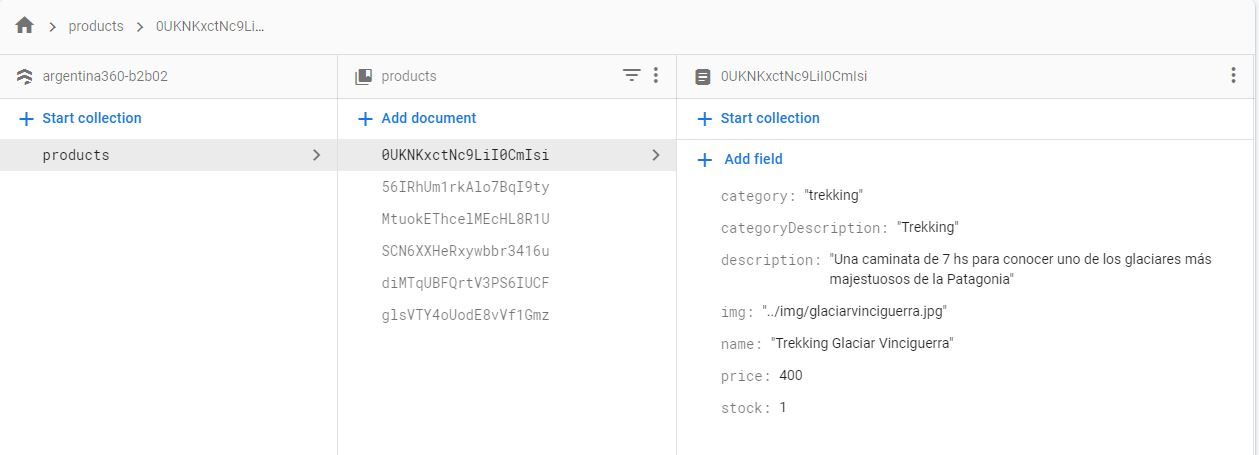
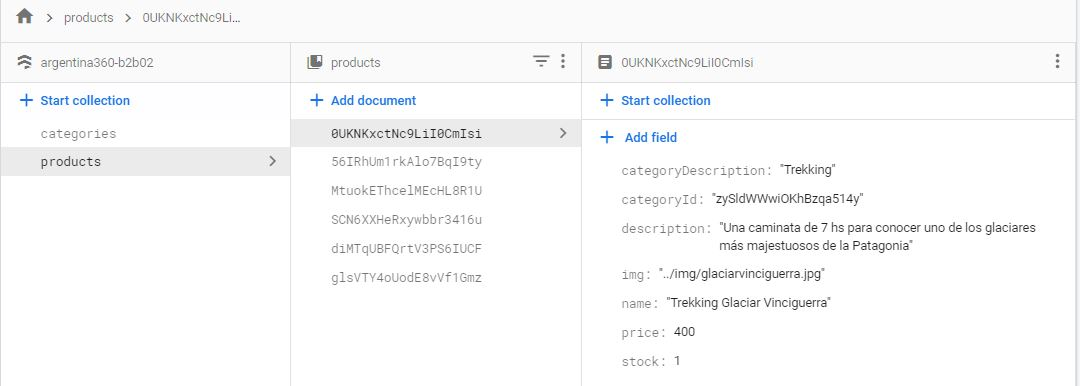
updated README

diff --git a/README.md b/README.md
@@ -2,11 +2,11 @@
 
 ## Repositorio de curso React (2495) - Coderhouse
 
-Este repositorio contiene todos los archivos necesarios para clonar el proyecto final del curso React (2495) de Coderhouse. El mismo consiste en todos los archivos html, css y javascript utilizados en la creación de la aplicación web de la tienda Argentina 360 la cual consiste en una única página (index.html). A su vez se listan las dependencias a instalarse para emular el desarrollo en un proyecto de Node.
+Este repositorio contiene todos los archivos necesarios para clonar el proyecto final del curso React (2495) de Coderhouse. El mismo consiste en todos los archivos html, css y javascript utilizados en la creación de la aplicación web de la tienda "Argentina 360". A su vez se listan las dependencias a instalarse para emular el desarrollo en un proyecto de Node.
 
 ## Acerca de la aplicación
 
-La aplicación "Tienda" simula un e-commerce de turismo en Argentina denominado "Argentina 360". En el mismo se pueden visualizar distintos tipos de productos turísticos filtrando por varias categorías y obtener luego detalles de una excursión, navegación o trekking en particular.
+La aplicación "Tienda" simula un e-commerce de turismo en Argentina denominado "Argentina 360". En el mismo se pueden visualizar distintos tipos de productos turísticos filtrando por varias categorías y obtener luego detalles de alguno en particular.
 
 ## Contenidos
 
@@ -72,13 +72,15 @@ Comenzar una nueva colección que deberá llamarse _products_
 
 <img src="https://github.com/UrbanPetris/tienda/blob/master/public/img/startcollection.JPG?raw=true" width="500">
 
-Completar los productos con las siguientes fields/keys (_category_, _categoryDescription_, _description_, _img_ _name_, _price_, _stock_). Todas deben ser del tipo texto salvo las últimas dos. Se recomienda que el primer field/key correspondiente al id se genere automáticamente:
+Completar los productos con las siguientes fields/keys (_categoryId_, _categoryDescription_, _description_, _img_ _name_, _price_, _stock_). Todas deben ser del tipo texto salvo las últimas dos. Se recomienda que el primer field/key correspondiente al id se genere automáticamente:
 
 <img src="https://github.com/UrbanPetris/tienda/blob/master/public/img/startcollection2.JPG?raw=true" width="500">
 
 ![startcollection3](https://github.com/UrbanPetris/tienda/blob/master/public/img/startcollection3.JPG?raw=true)
 
-PONER ACÁ CÓMO CONFIGURAR CATEGORY
+El campo _categoryId_ debe contener el id de los documentos de la collection a crear de categories donde la key _description_ será el nombre que se incorporará al navbar:
+
+![startcollection4](https://github.com/UrbanPetris/tienda/blob/master/public/img/startcollection4.JPG?raw=true)
 
 Una vez hecho esto deben configurarse las variables de entorno en un archivo .env que deberá ubicarse en el root de la app. Para ello antes se deberá registrar una app (en este caso, web) al proyecto de Firebase:
 
